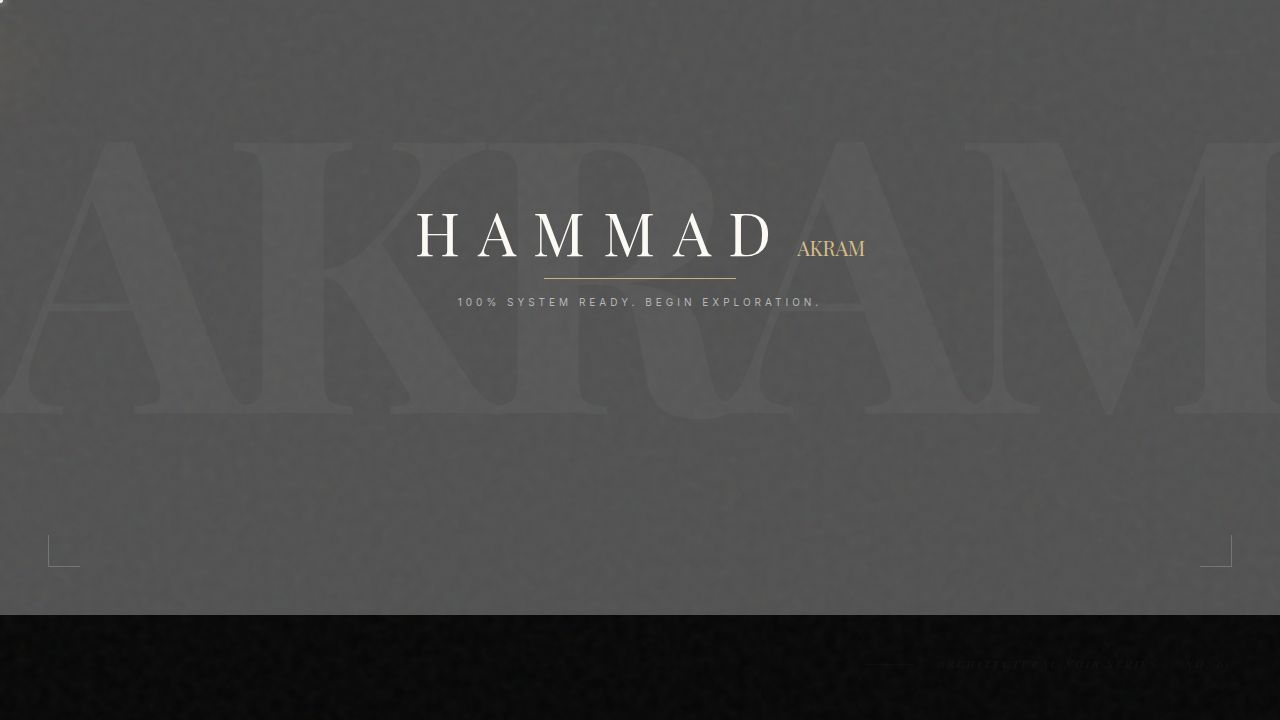
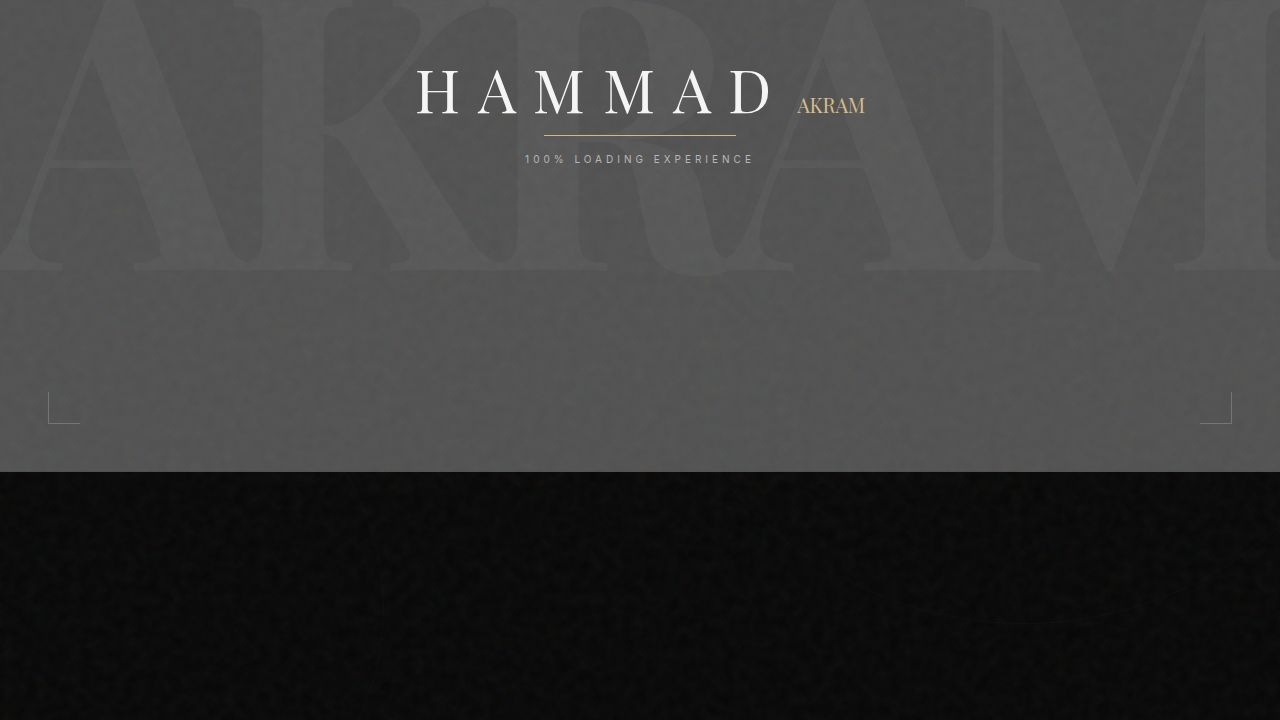
Restored to '971e44db9cc08e82eec7be8bdd7b7696db14b06d'
Replit-Restored-To: 971e44db9cc08e82eec7be8bdd7b7696db14b06d

diff --git a/client/src/components/sections/Hero.tsx b/client/src/components/sections/Hero.tsx
@@ -1,94 +1,34 @@
 import { motion } from "framer-motion";
-import pencilImage from '@assets/stock_images/vintage_wooden_penci_43afafa7.jpg';
 
 export function Hero() {
-  const name = "Hammad Akram";
-  
-  const pencilVariants = {
-    animate: {
-      x: [0, 40, 80, 120, 160, 200, 240, 280, 320, 360, 400],
-      y: [0, -10, 10, -10, 10, -10, 10, -10, 10, -10, 0],
-      transition: {
-        duration: 4,
-        ease: "linear",
-        repeat: 0
-      }
-    }
-  };
-
-  const letterVariants = {
-    initial: { opacity: 0, y: 5 },
-    animate: (i: number) => ({
-      opacity: 1,
-      y: 0,
-      transition: {
-        delay: i * 0.25,
-        duration: 0.6,
-        ease: "easeOut"
-      }
-    })
-  };
-
   return (
-    <section id="home" className="relative h-screen flex items-center justify-center overflow-hidden px-8 bg-[#0a0a0a]">
-      {/* Vintage Texture Overlay */}
-      <div className="absolute inset-0 opacity-[0.05] pointer-events-none mix-blend-overlay bg-[url('https://www.transparenttextures.com/patterns/old-paper.png')]" />
-      
+    <section id="home" className="relative h-screen flex items-center justify-center overflow-hidden px-8">
       <div className="relative z-10 w-full max-w-6xl flex flex-col items-center text-center">
+        
         <motion.div
-          initial={{ opacity: 0, y: 20 }}
+          initial={{ opacity: 0, y: 30 }}
           animate={{ opacity: 1, y: 0 }}
-          transition={{ duration: 1.5 }}
-          className="mb-6"
+          transition={{ duration: 1.5, ease: [0.77, 0, 0.175, 1] }}
+          className="mb-8"
         >
-          <span className="font-serif italic text-sm uppercase tracking-[0.6em] text-primary/60 mb-2 block">Est. 2026</span>
-          <div className="w-16 h-[0.5px] bg-primary/20 mx-auto" />
+          <span className="font-sans text-[10px] uppercase tracking-[0.5em] text-primary mb-2 block">Portfolio Vol. 01</span>
+          <div className="w-12 h-[1px] bg-primary/30 mx-auto" />
         </motion.div>
 
-        {/* Writing Animation Area */}
-        <div className="relative mb-12 py-10 flex flex-col items-center">
-          <h1 className="text-7xl md:text-8xl lg:text-[10rem] font-serif text-ivory tracking-tight leading-none flex items-baseline relative">
-            {name.split("").map((char, i) => (
-              <motion.span
-                key={i}
-                custom={i}
-                variants={letterVariants}
-                initial="initial"
-                animate="animate"
-                className={char === " " ? "mr-6 md:mr-10" : ""}
-                style={{ 
-                  fontFamily: "'Playfair Display', serif",
-                  fontWeight: 400
-                }}
-              >
-                {char}
-              </motion.span>
-            ))}
-
-            {/* Animated Pencil */}
-            <motion.div
-              className="absolute -top-16 -left-20 w-32 h-32 pointer-events-none z-20"
-              variants={pencilVariants}
-              animate="animate"
-            >
-              <img 
-                src={pencilImage}
-                alt="Vintage Pencil"
-                className="w-full h-full object-contain opacity-90"
-                style={{ 
-                  transform: "rotate(-45deg)",
-                  filter: "brightness(0.8) sepia(0.3)"
-                }}
-              />
-            </motion.div>
-          </h1>
-        </div>
+        <motion.h1 
+          initial={{ opacity: 0, scale: 0.95 }}
+          animate={{ opacity: 1, scale: 1 }}
+          transition={{ duration: 2, ease: [0.77, 0, 0.175, 1] }}
+          className="text-7xl md:text-9xl lg:text-[10rem] font-serif text-ivory tracking-tighter leading-none mb-8 uppercase"
+        >
+          Hammad <br/> <span className="italic font-light opacity-80 text-primary">Akram</span>
+        </motion.h1>
 
         <motion.div 
           initial={{ opacity: 0 }}
           animate={{ opacity: 1 }}
-          transition={{ delay: 3.5, duration: 1.5 }}
-          className="text-xs md:text-sm font-serif italic tracking-[0.4em] text-ivory/30 mb-16 uppercase"
+          transition={{ delay: 1, duration: 1.5 }}
+          className="text-base md:text-lg font-sans uppercase tracking-[0.4em] text-ivory/60 mb-12 max-w-2xl"
         >
           Wapda Town Lahore, Punjab
         </motion.div>
@@ -96,27 +36,30 @@ export function Hero() {
         <motion.div 
           initial={{ opacity: 0, y: 20 }}
           animate={{ opacity: 1, y: 0 }}
-          transition={{ delay: 4, duration: 1, ease: [0.77, 0, 0.175, 1] }}
-          className="flex flex-col md:flex-row gap-10"
+          transition={{ delay: 1.5, duration: 1, ease: [0.77, 0, 0.175, 1] }}
+          className="flex flex-col md:flex-row gap-6"
         >
           <button 
             onClick={() => document.getElementById('projects')?.scrollIntoView({ behavior: 'smooth' })}
-            className="px-12 py-5 font-serif italic tracking-widest text-xs uppercase border border-primary/20 text-primary hover:bg-primary/5 transition-all duration-500"
+            className="luxury-button"
           >
-            The Archive
+            Projects
           </button>
           <button 
             onClick={() => document.getElementById('contact')?.scrollIntoView({ behavior: 'smooth' })}
-            className="px-12 py-5 uppercase tracking-[0.3em] text-[10px] font-serif italic border border-white/5 hover:border-primary/40 transition-all duration-700 text-ivory/60 hover:text-ivory"
+            className="px-10 py-4 uppercase tracking-[0.2em] text-[10px] font-sans border border-white/10 hover:border-white transition-colors"
           >
-            Inquiry
+            Contact Us
           </button>
         </motion.div>
       </div>
 
-      {/* Editorial Numbers */}
-      <div className="absolute left-12 bottom-12 text-[9px] font-serif italic tracking-[0.5em] text-white/5 uppercase">
-        ARCHITECTURAL NOIR SERIES // NO. 01
+      <div className="hidden lg:block absolute left-12 top-1/2 -translate-y-1/2">
+        <div className="flex flex-col gap-4 text-[10px] font-sans tracking-[0.5em] uppercase text-muted-foreground/30 [writing-mode:vertical-rl] rotate-180">
+          <span>Established 2026</span>
+          <div className="h-20 w-[1px] bg-white/10 mx-auto" />
+          <span>Lahore — Global</span>
+        </div>
       </div>
     </section>
   );

diff --git a/client/src/index.css b/client/src/index.css
@@ -28,7 +28,7 @@
 
   /* Custom Palette - Architectural Noir */
   --color-noir: #080808;
-  --color-ivory: #fdfaf3; /* Slightly warmer vintage ivory */
+  --color-ivory: #f2f2f2;
   --color-gold: #c5a059;
   --color-crimson: #8b0000;
 
